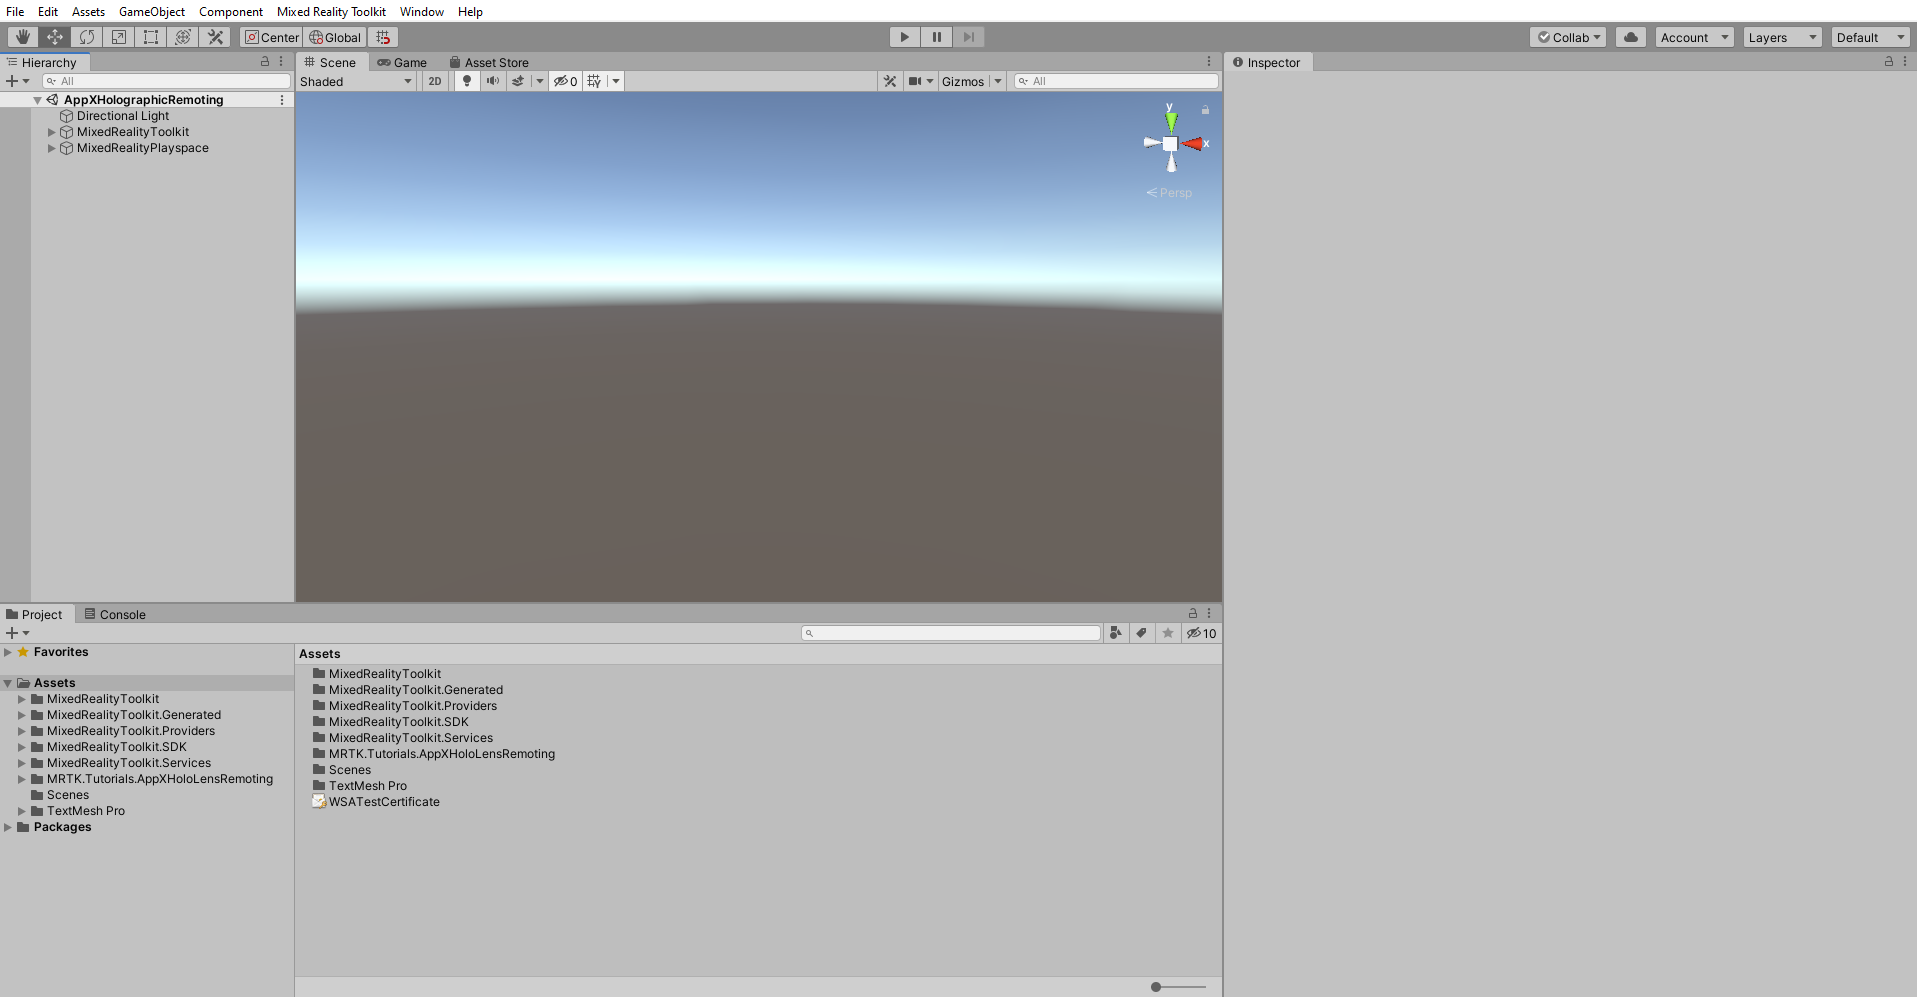
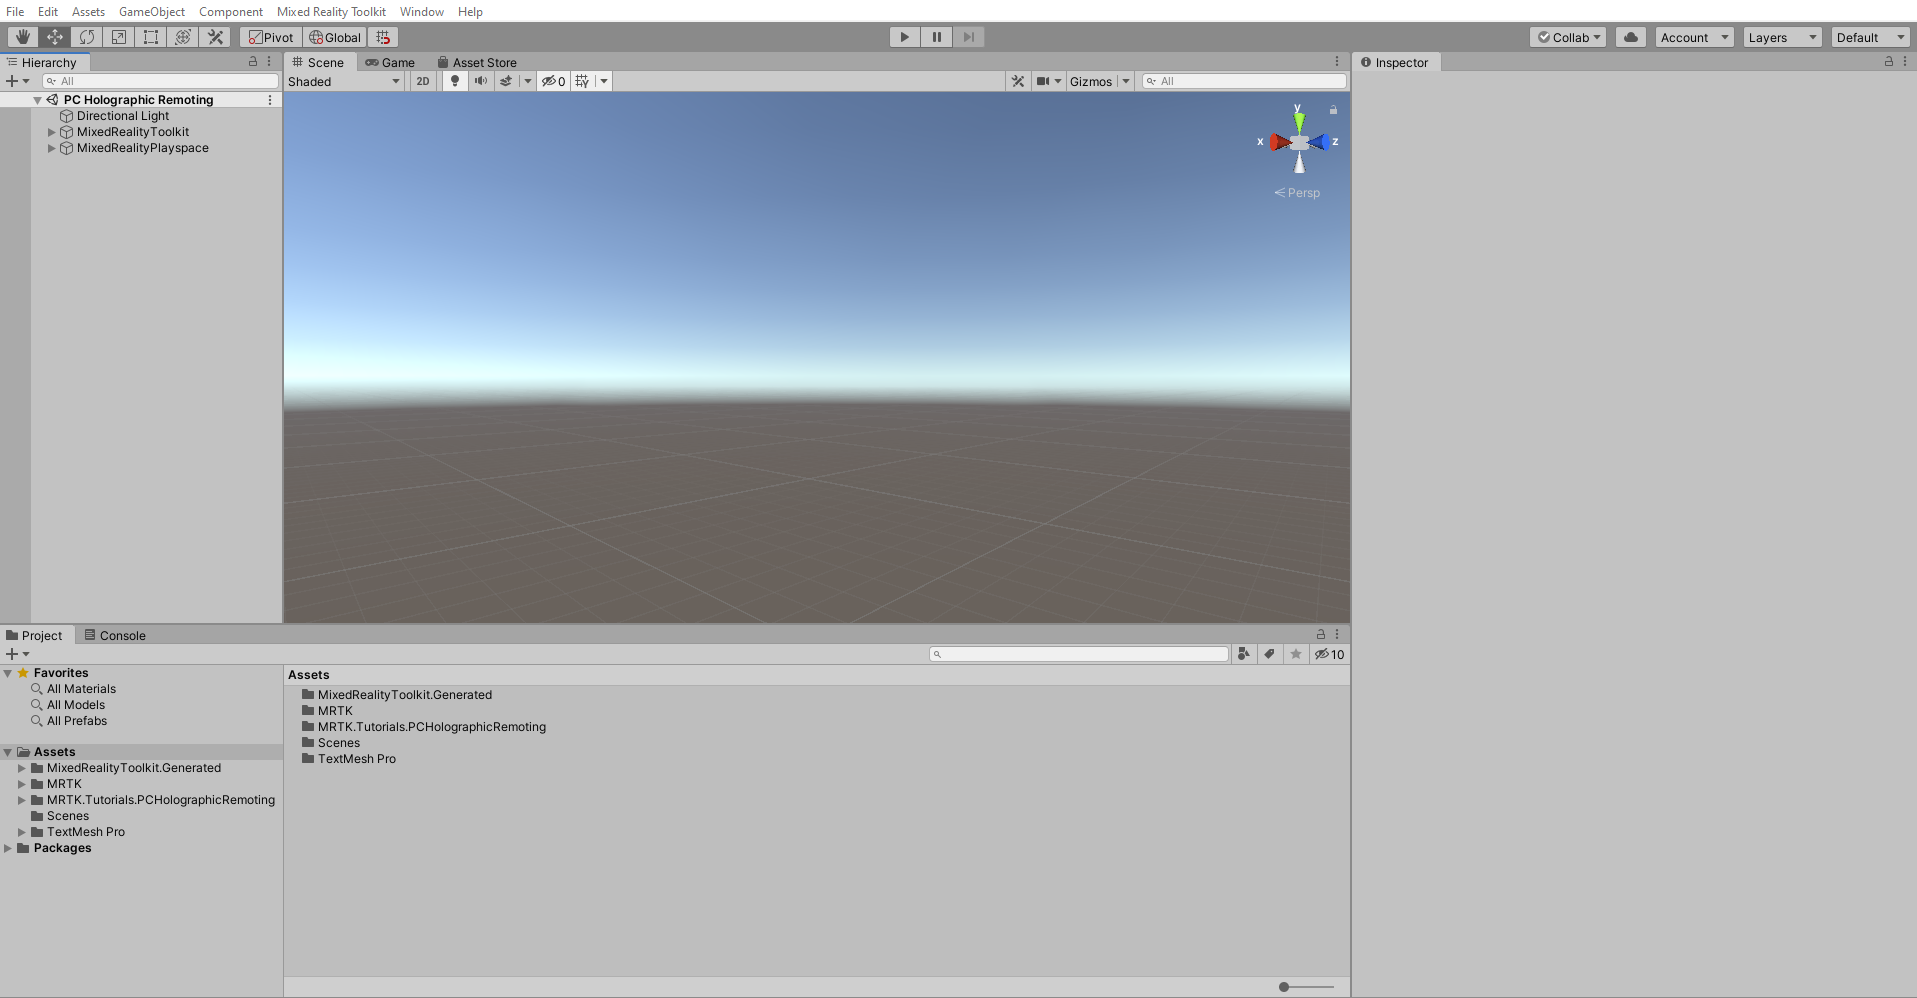
First 3 images changed

Changed region(s): [[0.0, 0.0, 0.7694, 0.8706], [0.0, 0.9639, 1.0, 1.0], [0.0, 0.0, 0.0308, 0.0311]]

diff --git a/mixed-reality-docs/mr-learning-appx-01.md b/mixed-reality-docs/mr-learning-appx-01.md
@@ -49,11 +49,11 @@ For this, first follow the [Initializing your project and first application](mrl
 
 3. [Import TextMesh Pro Essential Resources](mrlearning-base-ch1.md#import-textmesh-pro-essential-resources)
 
-4. [Import the Mixed Reality Toolkit](mrlearning-base-ch1.md#import-the-mixed-reality-toolkit)
+4. [Import the Mixed Reality Toolkit](mrlearning-base-ch1.md#import-the-mixed-reality-toolkit) Version 2.4
 
 5. [Configuring the Unity project for the Mixed Reality Toolkit](mrlearning-base-ch1.md#Configuring-the-unity-project-for-the-mixed-reality-toolkit)
 
-6. [Add the Mixed Reality Toolkit to the Unity scene](mrlearning-base-ch1.md#configuring-the-mixed-reality-toolkit) and give the scene a suitable name, for example, *AppXHolographicRemoting*
+6. [Add the Mixed Reality Toolkit to the Unity scene](mrlearning-base-ch1.md#configuring-the-mixed-reality-toolkit) and give the scene a suitable name, for example, **PC Holographic Remoting**
 
 Then follow the [How to Configuring the Mixed Reality Toolkit Profiles (Change Spatial Awareness Display Option)](mrlearning-base-ch2.md#how-to-Configuring-the-mixed-reality-toolkit-profiles-change-spatial-awareness-display-option) instructions to change the MRTK Configuration profile for your scene to the **DefaultHoloLens2ConfigurationProfile** and change the display options for the spatial awareness mesh to **Occlusion**.
 
